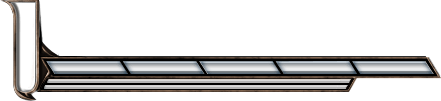
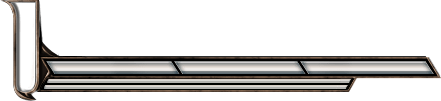
update wounds display on health bars

Changed region(s): [[0.619, 0.5941, 0.8254, 0.7426], [0.3832, 0.5941, 0.4717, 0.7426], [0.2653, 0.5941, 0.3243, 0.7426]]

diff --git a/game/hud/src/components/HUD/UnitFrame/PlayerFrame.tsx b/game/hud/src/components/HUD/UnitFrame/PlayerFrame.tsx
@@ -4,7 +4,7 @@
  * file, You can obtain one at http://mozilla.org/MPL/2.0/.
  */
 
-import * as React from 'react';
+import React from 'react';
 import { styled } from '@csegames/linaria/react';
 import { Tooltip } from 'shared/Tooltip';
 import { Faction as GQLFaction, Archetype as GQLArchetype } from 'gql/interfaces';
@@ -86,10 +86,10 @@ const HealthSubGrid = styled.div`
     '. blood . panic panic panic . . .'
     '. blood . . . . . . .'
     '. . . . . . . . .';
-  grid-template-columns: 8px 30px 6px 3px 6px 293px 3px 85px 7px;
+  grid-template-columns: 8px 30px 6px 3px 3px 293px 3px 85px 10px;
   grid-template-rows: 57px 4px 13px 6px 4px 1px 4px 3px 9px;
   @media (max-width: 1920px) {
-    grid-template-columns: 4px 15px 3px 1px 3px 147px 1px 43px 3px;
+    grid-template-columns: 4px 15px 3px 1px 3px 147px 1px 42px 3px;
     grid-template-rows: 29px 2px 7px 2px 2px 1px 2px 1px 4px;
   }
 `;
@@ -113,18 +113,16 @@ const Health = styled.div`
   transform: skewX(31.6deg);
 `;
 
-const HealthText = styled.div`
-  position: absolute;
-  text-align: center;
+const Wounds = styled.div`
   grid-area: health;
   height: 100%;
-  width: 100%;
-  color: white;
-  line-height: 12px;
-  @media (max-width: 1920px) {
-    font-size: 16px;
-    line-height: 6px;
-  }
+  transform: skewX(31.6deg);
+  justify-self: end;
+`;
+
+const HealthText = styled.div`
+  font-size: 1em;
+  line-height: 1em;
 `;
 
 const Stamina = styled.div`
@@ -188,10 +186,6 @@ export interface State {
 
 export class PlayerFrame extends React.Component<Props, State> {
 
-  public state = {
-    hover: false,
-  };
-
   public render() {
     return (
       <UIContext.Consumer>
@@ -229,52 +223,77 @@ export class PlayerFrame extends React.Component<Props, State> {
 
     return (
       <PlayerFrameContainer data-input-group='block'>
-        <MainGrid onMouseOver={this.setHoverOn} onMouseLeave={this.setHoverOff}>
-          <MainFrame>
-            <Image src={imgDir + 'bg.png'} />
+        <Tooltip
+          content={(
+            <>
+              <HealthText style={{
+                color: theme.unitFrames.color.health,
+                fontWeight: 900,
+                fontSize: '1.1em',
+              }}>
+                <div style={{ display: 'inline-block', width: '101px' }}>Health:</div>
+                {`${player.health && player.health[0] ? player.health[0].current.printWithSeparator(' ') : 0}  /`}
+                {`  ${player.health && player.health[0] ? player.health[0].max.printWithSeparator(' ') : 0}`}
+              </HealthText>
+              <HealthText style={{ color: theme.unitFrames.color.blood }}>
+                <div style={{ display: 'inline-block', width: '100px' }}>Blood:</div>
+                {`${player.blood && player.blood[0] ? player.blood[0].current.printWithSeparator(' ') : 0}  /`}
+                {`  ${player.blood && player.blood[0] ? player.blood[0].max.printWithSeparator(' ') : 0}`}
+              </HealthText>
+              <HealthText style={{ color: theme.unitFrames.color.stamina }}>
+                <div style={{ display: 'inline-block', width: '100px' }}>Stamina:</div>
+                {`${player.stamina && player.stamina[0] ? player.stamina[0].current.printWithSeparator(' ') : 0}  /`}
+                {`  ${player.stamina && player.stamina[0] ? player.stamina[0].max.printWithSeparator(' ') : 0}`}
+              </HealthText>
+            </>
+          )}
+        >
+          <MainGrid>
+            <MainFrame>
+              <Image src={imgDir + 'bg.png'} />
 
-            <HealthSubGrid>
-              <NameBG src={imgDir + realmPrefix + 'nameplate-bg.png'} />
-            </HealthSubGrid>
-
-            <HealthSubGrid style={{ WebkitMaskImage: `url(${imgDir}main-frame-mask.png)` }}>
-              <Blood style={{
-                height: CurrentMax.cssPercent(player.blood),
-                backgroundColor: theme.unitFrames.color.blood,
-              }} />
-              <Health style={{
-                width: player.health && player.health[0] ? CurrentMax.cssPercent(player.health[0]) : 0,
-                backgroundColor: theme.unitFrames.color.health,
-              }} />
-              <Stamina style={{
-                width: CurrentMax.cssPercent(player.stamina),
-                backgroundColor: theme.unitFrames.color.stamina,
-              }} />
-              <NameBG src={imgDir + realmPrefix + 'nameplate-bg.png'} />
-            </HealthSubGrid>
-
-            {/* Overlay */}
-            <Image src={imgDir + realmPrefix + 'main-frame.png'} />
-
-            {this.state.hover && player.health && player.health[0] &&
               <HealthSubGrid>
-                <HealthText>{player.health[0].current.toFixed(0) + ' / ' + player.health[0].max}</HealthText>
-              </HealthSubGrid >
-            }
+                <NameBG src={imgDir + realmPrefix + 'nameplate-bg.png'} />
+              </HealthSubGrid>
 
-          </MainFrame>
+              <HealthSubGrid style={{ WebkitMaskImage: `url(${imgDir}main-frame-mask.png)` }}>
+                <Blood style={{
+                  height: CurrentMax.cssPercent(player.blood),
+                  backgroundColor: theme.unitFrames.color.blood,
+                }} />
+                <Health style={{
+                  width: player.health && player.health[0] ? CurrentMax.cssPercent(player.health[0]) : 0,
+                  backgroundColor: theme.unitFrames.color.health,
+                }} />
+                <Wounds style={{
+                  width: player.health && player.health[0].wounds ? ((player.health[0].wounds * .333) * 100 + '%') : 0,
+                  background: `url(${imgDir}wounds-texture.png) ${theme.unitFrames.color.wound} repeat-x`,
+                }}
+                />
+                <Stamina style={{
+                  width: CurrentMax.cssPercent(player.stamina),
+                  backgroundColor: theme.unitFrames.color.stamina,
+                }} />
+                <NameBG src={imgDir + realmPrefix + 'nameplate-bg.png'} />
+              </HealthSubGrid>
 
-          <ArchetypeFrameContainer>
-            <Image src={imgDir + archetypePrefix + 'bg.png'} />
-            <Image
-              src={imgDir + realmPrefix + 'propic.png'}
-              style={{ WebkitMaskImage: `url(${imgDir + archetypePrefix}bg.png)` }}
-            />
-            <Image src={imgDir + realmPrefix + archetypePrefix + 'frame.png'} />
-          </ArchetypeFrameContainer>
+              {/* Overlay */}
+              <Image src={imgDir + realmPrefix + 'main-frame.png'} />
 
-          <Name>{player.name}{!player.isAlive ? ' (Corpse)' : ''}</Name>
-        </MainGrid>
+            </MainFrame>
+
+            <ArchetypeFrameContainer>
+              <Image src={imgDir + archetypePrefix + 'bg.png'} />
+              <Image
+                src={imgDir + realmPrefix + 'propic.png'}
+                style={{ WebkitMaskImage: `url(${imgDir + archetypePrefix}bg.png)` }}
+              />
+              <Image src={imgDir + realmPrefix + archetypePrefix + 'frame.png'} />
+            </ArchetypeFrameContainer>
+
+            <Name>{player.name}{!player.isAlive ? ' (Corpse)' : ''}</Name>
+          </MainGrid>
+        </Tooltip>
 
         {player.statuses &&
           <Statuses>
@@ -308,14 +327,6 @@ export class PlayerFrame extends React.Component<Props, State> {
         </Status>
       </Tooltip>
     );
-  }
-
-  private setHoverOn = () => {
-    this.setState({ hover: true });
-  }
-
-  private setHoverOff = () => {
-    this.setState({ hover: false });
   }
 
   private realmPrefix = (faction: Faction | GQLFaction) => {

diff --git a/library/src/utils/numberUtils.ts b/library/src/utils/numberUtils.ts
@@ -10,9 +10,14 @@ export {};
 declare global {
   interface Number {
     floatEquals(n: number, epsilon?: number): boolean;
+    printWithSeparator(separator: string): string;
   }
 }
 
 Number.prototype.floatEquals = function(n: number, epsilon: number = Number.EPSILON) {
   return (Math.abs(this - n) < epsilon);
+};
+
+Number.prototype.printWithSeparator = function(separator: string) {
+  return this.toString().replace(/\B(?=(\d{3})+(?!\d))/g, separator);
 };

diff --git a/game/hud/src/services/themes/cse.ts b/game/hud/src/services/themes/cse.ts
@@ -16,6 +16,7 @@ export default function(): Theme {
         blood: '#DF2E00',
         stamina: '#53FF64',
         panic: '#FFF153',
+        wound: '#A02106',
       },
     },
 

diff --git a/game/hud/src/services/themes/index.ts b/game/hud/src/services/themes/index.ts
@@ -28,6 +28,7 @@ declare global {
         blood: string;
         stamina: string;
         panic: string;
+        wound: string;
       };
     };
 
